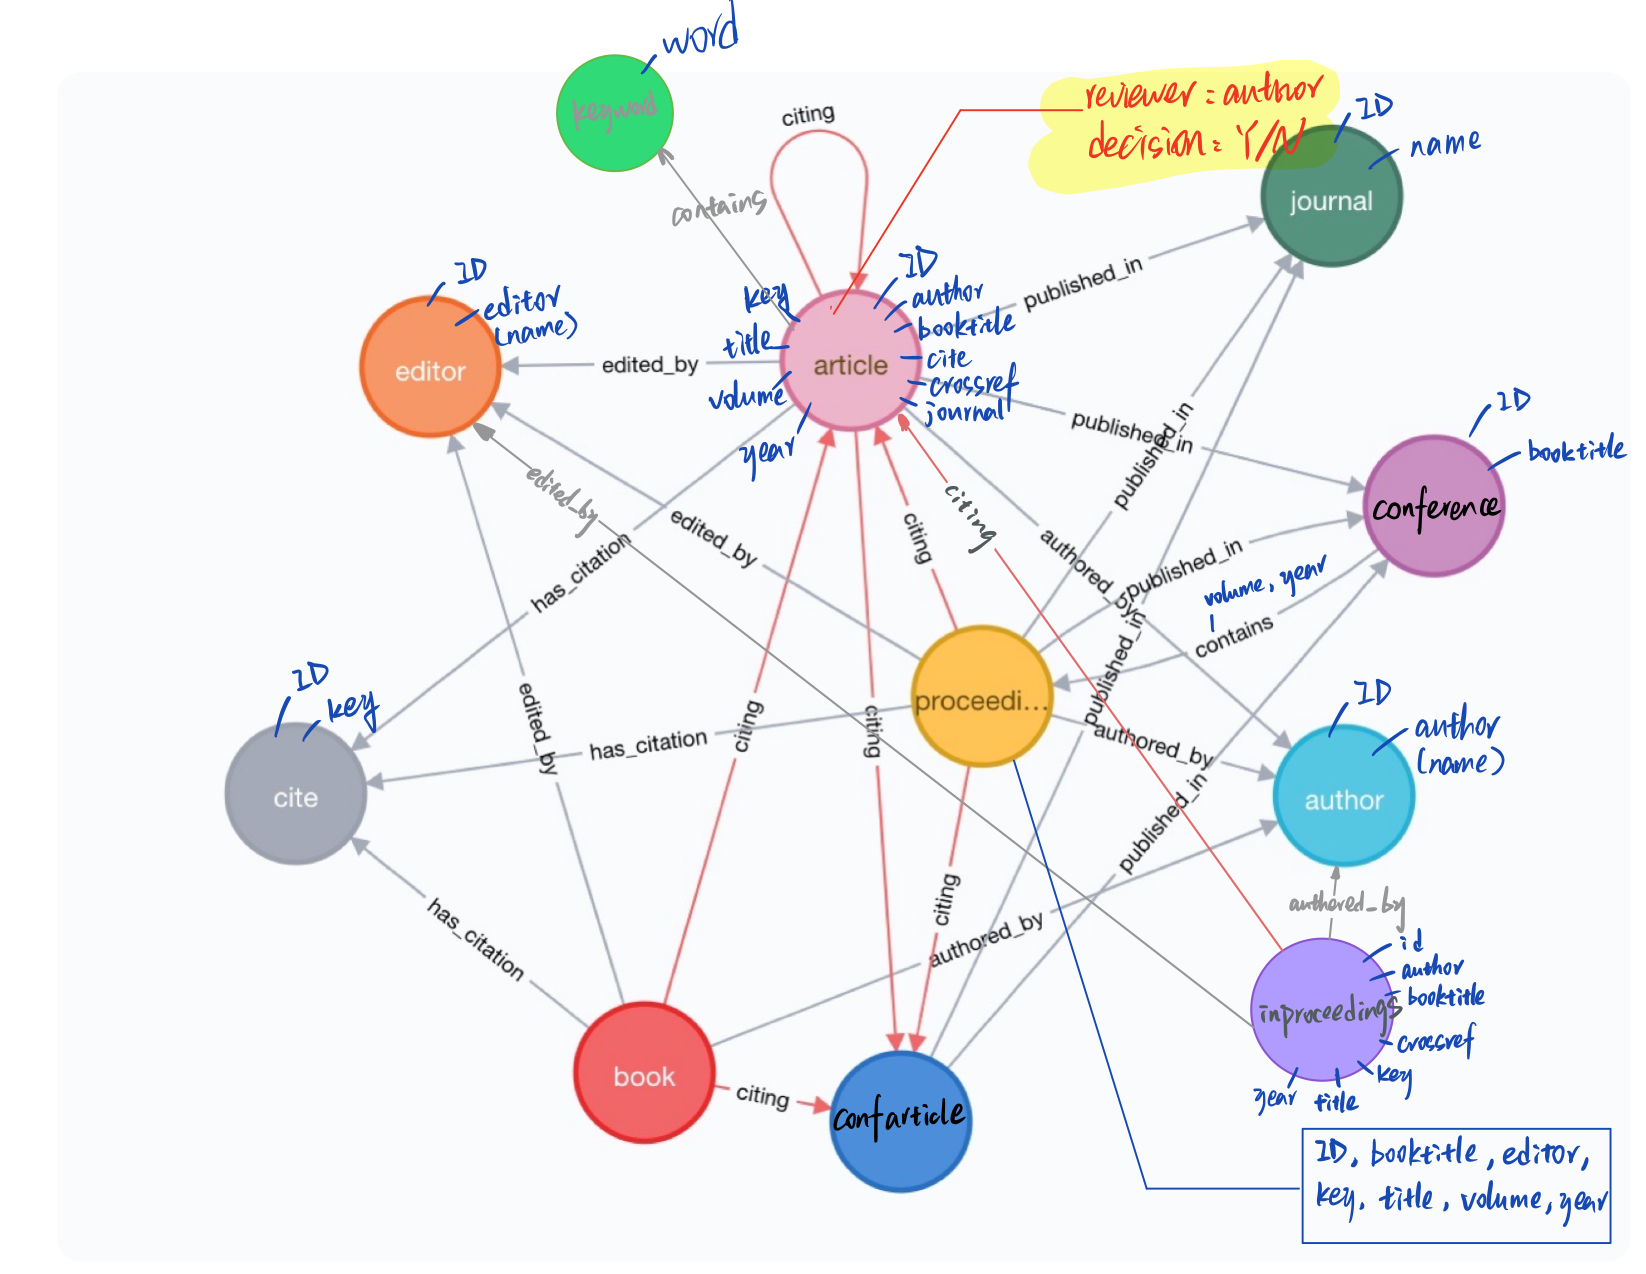
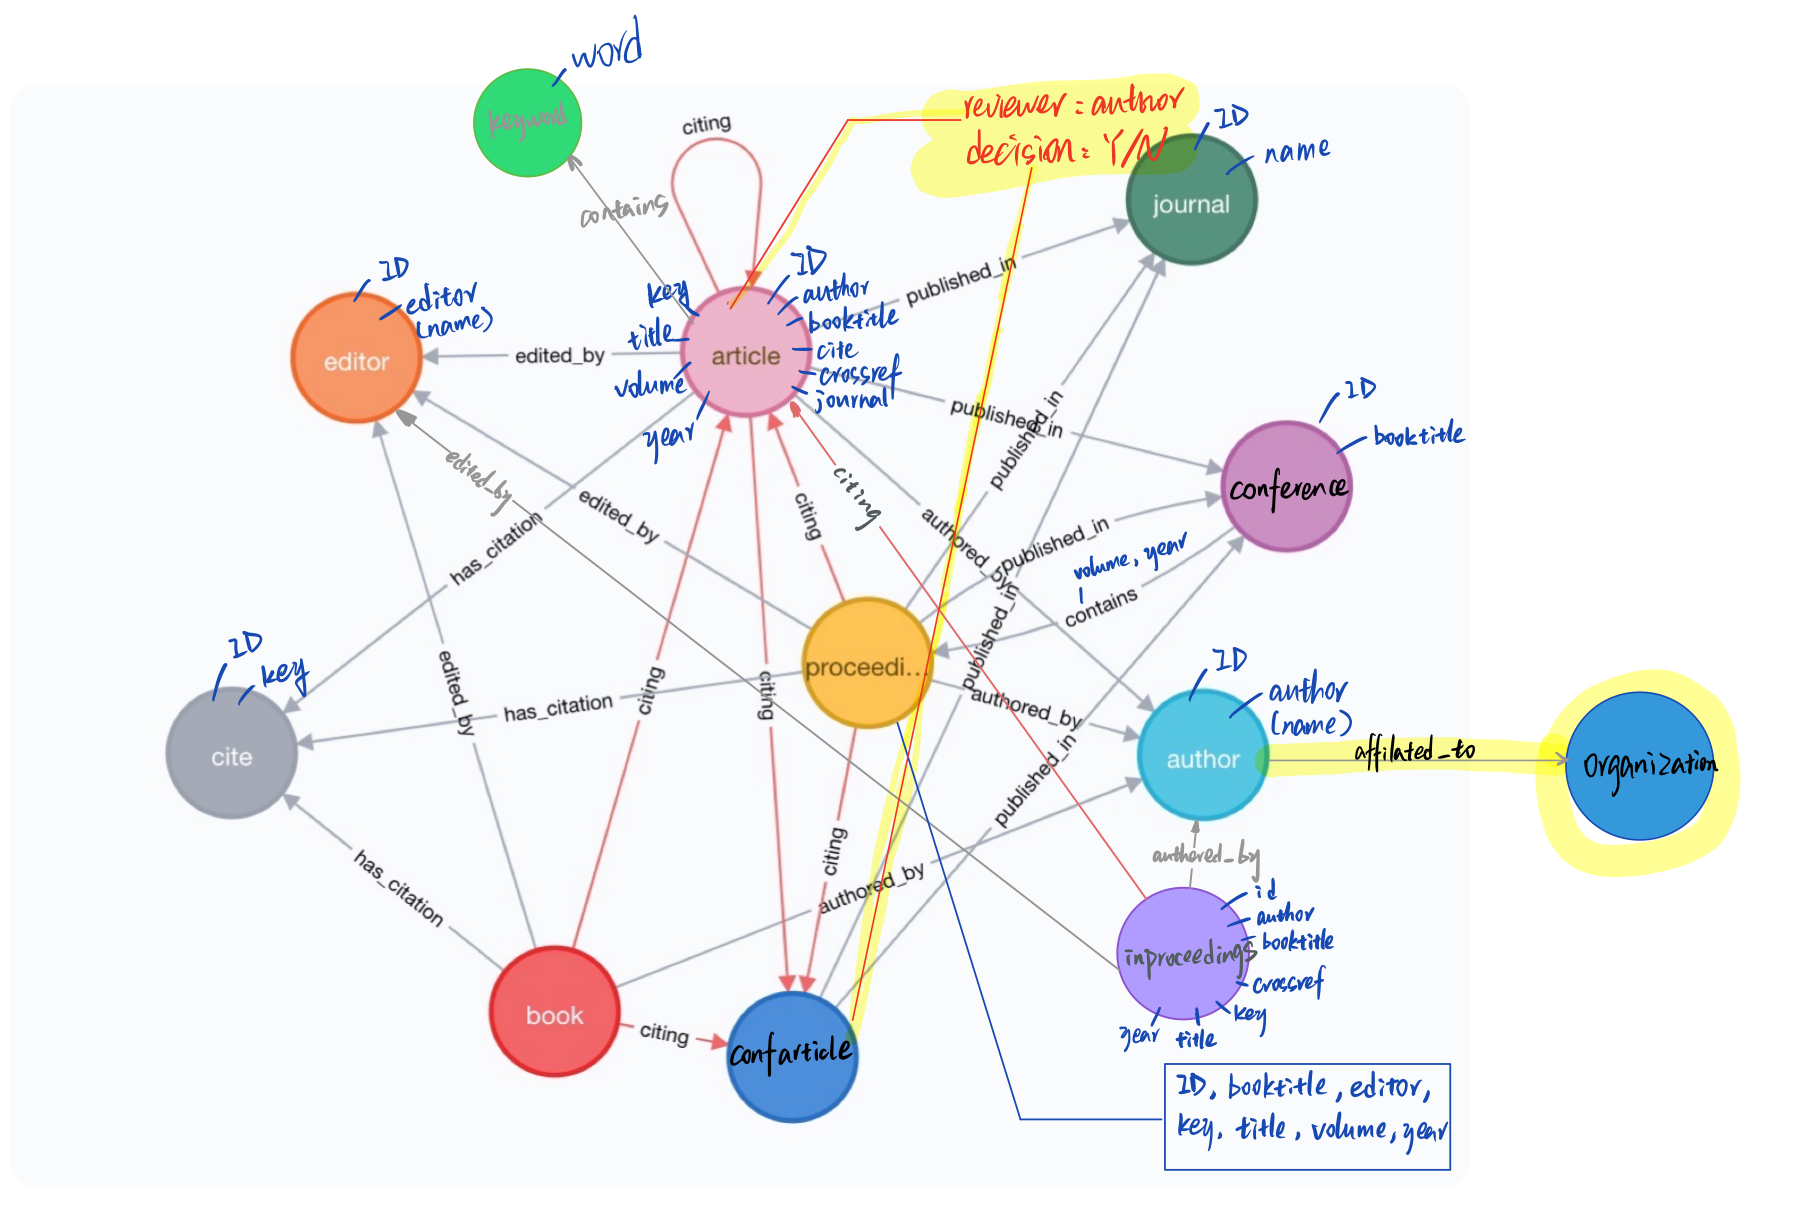
PartA.3

diff --git a/README.md b/README.md
@@ -10,12 +10,14 @@ Further changes are performed in Cypher and saved as `PartA.2_LiJin`.
 
 ## A.3 Evolving the graph
 ![ModelDesign](PartA.3.jpeg)
-We create the reviewers for each article/inproceeding based on the community of the corresponding journal/conference (derived from PartB.3). Random 3 reviewers are assigned to each paper.
+We create the `reviewers` property for each article/inproceeding based on the community of the corresponding journal/conference (derived from PartB.3). Random 3 reviewers are assigned to each paper.
+
+For the `affiliation`, given the missing raw data, it is randomly assigned for each author a specific university. 
 
 ## B Querying
 ### 1. H-index
 
-```python
+```
 MATCH ()-[c:citing]->(p:article)-[:authored_by]->(a:author)
 WITH a, p, count(c) as numCit
 ORDER BY numCit
@@ -32,7 +34,7 @@ Testing result:
 ![Query1](TestingResult/Query_1.png)
 
 ### 2. Top 3 for each conference
-```python
+```
 MATCH ()-[c:citing]->(p:confarticle)-[con:published_in]->(conf:conference)
 with distinct p, count(c) as citnum, conf ORDER BY citnum DESC
 with conf, collect(p.title) as array_1, collect(citnum) as array_2
@@ -44,7 +46,7 @@ Testing result:
 
 ### 3. Community for each Conference
 
-```python
+```
 MATCH(conf:proceedings)
 WITH distinct conf.booktitle as confTitle #LIMIT 25
 MATCH (inp:inproceedings{booktitle:confTitle})-[:authored_by]->(a:author)
@@ -59,7 +61,7 @@ Testing result:
 
 ### 4. Impact factor of journals
 
-```python
+```
 MATCH ()-[c:citing]->(a:article)
 with a, count(c) as citnum
 MATCH (j:journal)<-[pi:published_in]-(a:article)
@@ -78,3 +80,5 @@ Testing result:
 ## C Graph algorithms
 
 ## D Recommender
+### 1 Define research community
+The `keywords` are derived from the paper title (tokenize & remove stop words). 
